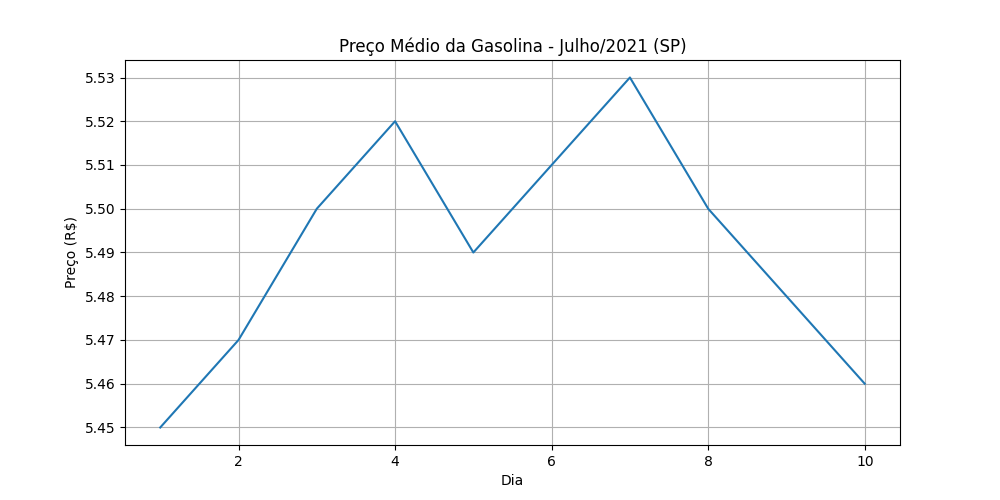
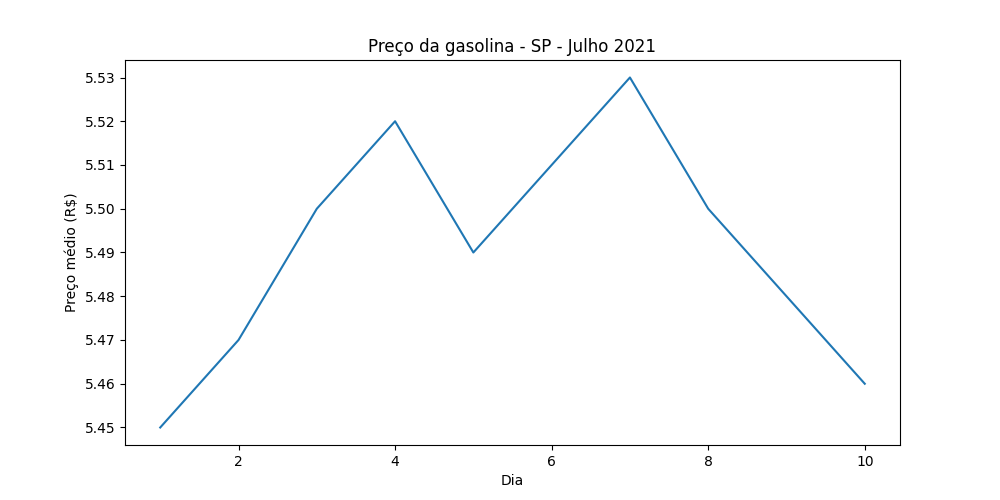
Adiciona gráfico e script da gasolina na branch development

Changed region(s): [[0.341, 0.06, 0.682, 0.12], [0.062, 0.39, 0.093, 0.63]]

diff --git a/gasolina.py b/gasolina.py
@@ -3,12 +3,11 @@ import pandas as pd
 import seaborn as sns
 import matplotlib.pyplot as plt
 
-df = pd.read_csv('gasolina.csv')
+df = pd.read_csv("gasolina.csv")
 
 plt.figure(figsize=(10,5))
-sns.lineplot(data=df, x='dia', y='venda')
-plt.title('Preço Médio da Gasolina - Julho/2021 (SP)')
-plt.xlabel('Dia')
-plt.ylabel('Preço (R$)')
-plt.grid(True)
-plt.savefig('gasolina.png')
+sns.lineplot(x="dia", y="venda", data=df)
+plt.title("Preço da gasolina - SP - Julho 2021")
+plt.xlabel("Dia")
+plt.ylabel("Preço médio (R$)")
+plt.savefig("gasolina.png")
